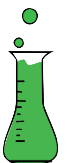
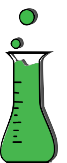
shadows

Changed region(s): [[0.0, 0.2147, 0.8657, 1.0], [0.2687, 0.0307, 0.5672, 0.184], [0.5075, 0.3681, 0.5373, 0.3988]]

diff --git a/style.css b/style.css
@@ -47,31 +47,35 @@ h1{
     padding: 15px 0;
     margin: 10px 0;
     font-weight: bold;
+    font-size: 0.8rem;
+    box-shadow: 2px 0px 5px black;
 }
 
+.bottle{
+    box-shadow: none;
+}
 .bookRed{
-    background-image: linear-gradient(to bottom, darkred, rgb(205,0,0), darkred);
+    background-image: linear-gradient(to bottom, darkred, rgb(205,0,0));
     transform: rotate(-80deg);
     color: black;
 }
 .bookBlue{
-    background-image: linear-gradient(to bottom, darkblue,blue,darkblue);
+    background-image: linear-gradient(to bottom, rgb(45, 45, 128),rgb(107, 107, 209));
 }
 
 .bookGreen{
-    background-image: linear-gradient(to bottom, darkgreen,olive
-    ,darkgreen);
+    background-image: linear-gradient(to bottom, darkgreen,olive);
 }
 
 .bookYellow{
-    background-image: linear-gradient(to bottom, rgba(92, 92, 8),yellow
-    ,rgba(92, 92, 8));
+    background-image: linear-gradient(to bottom, yellow, rgba(92, 92, 8));
     transform: rotate(70deg);
+    box-shadow: 0px 2px 2px black;
 
 }
 
 .bookGray{
-    background-image: linear-gradient(to bottom, darkgrey, gray, darkgrey);
+    background-image: linear-gradient(to bottom, rgb(85, 85, 85), rgb(214, 214, 214));
     transform: rotate(-80deg);
     color: black;
 }
